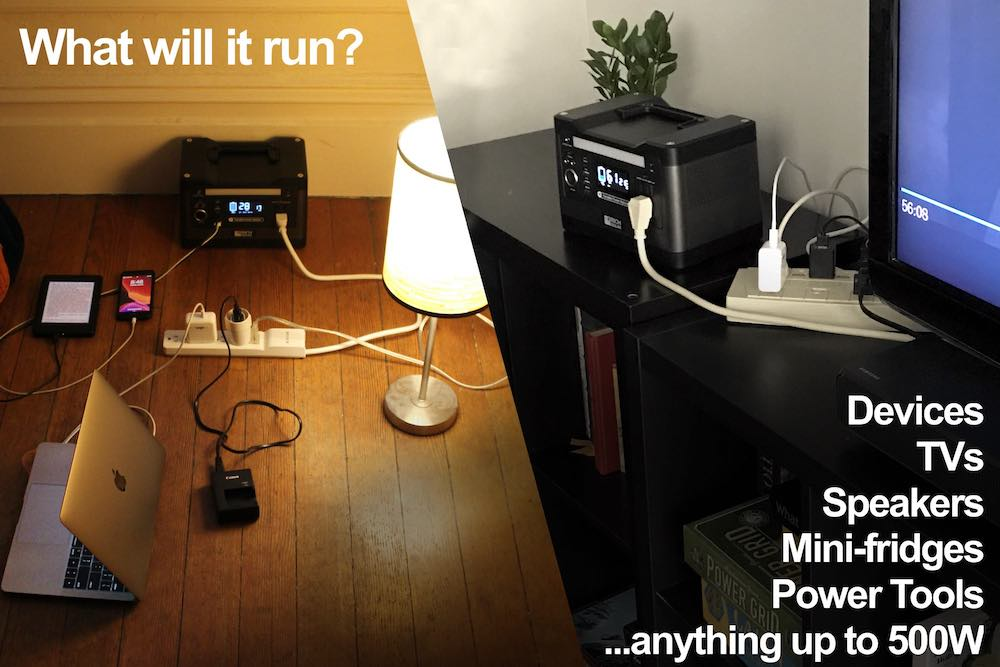
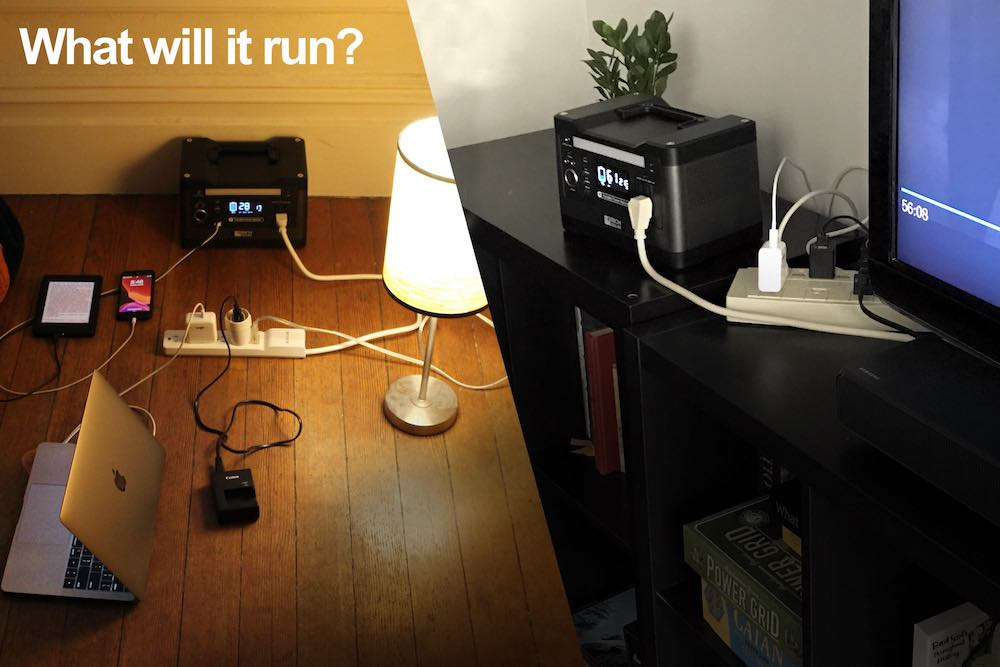
rebuilding site Wed Jul  1 12:24:56 PDT 2020

Changed region(s): [[0.589, 0.5697, 0.992, 1.0], [0.093, 0.06, 0.124, 0.09]]

diff --git a/docs/solar-kit/index.html b/docs/solar-kit/index.html
@@ -147,6 +147,9 @@ Step 2: Zip-tie panels in place Assembly is simple – zip-tie to the panels any
                 <div class="carousel-item" data-slide-number="5">
                     <img src="img/where_to_put_panel_2.jpg" class="img-fluid">
                 </div>
+                <div class="carousel-item" data-slide-number="6">
+                    <img src="img/we_help_you_install.jpg" class="img-fluid">
+                </div>
 
 
                 <a class="carousel-control-prev" href="#myCarousel" role="button" data-slide="prev">
@@ -191,6 +194,11 @@ Step 2: Zip-tie panels in place Assembly is simple – zip-tie to the panels any
                 <li class="list-inline-item">
                     <a id="carousel-selector-5" data-slide-to="5" data-target="#myCarousel">
                         <img src="img/where_to_put_panel_2.jpg" class="img-fluid">
+                    </a>
+                </li>
+                <li class="list-inline-item">
+                    <a id="carousel-selector-6" data-slide-to="6" data-target="#myCarousel">
+                        <img src="img/we_help_you_install.jpg" class="img-fluid">
                     </a>
                 </li>
             </ul>
@@ -258,9 +266,10 @@ Step 2: Zip-tie panels in place Assembly is simple – zip-tie to the panels any
           </div>
           <hr/>
           <div class="col-12 mt-5">
-            <h4>Power:</h4>
+            <h4>Power anything up to 500W:</h4>
             <img data-src="img/what_will_it_run_2.jpg" class="lazy">
             <img data-src="img/what_will_it_run.jpg" class="lazy">
+            <p>Questions about whether it can run your device? Reach out!</p>
           </div>
       </div>
       <br/><br/>

diff --git a/layouts/solar-kit/list.html b/layouts/solar-kit/list.html
@@ -48,6 +48,9 @@
                 <div class="carousel-item" data-slide-number="5">
                     <img src="img/where_to_put_panel_2.jpg" class="img-fluid">
                 </div>
+                <div class="carousel-item" data-slide-number="6">
+                    <img src="img/we_help_you_install.jpg" class="img-fluid">
+                </div>
 
 
                 <a class="carousel-control-prev" href="#myCarousel" role="button" data-slide="prev">
@@ -92,6 +95,11 @@
                 <li class="list-inline-item">
                     <a id="carousel-selector-5" data-slide-to="5" data-target="#myCarousel">
                         <img src="img/where_to_put_panel_2.jpg" class="img-fluid">
+                    </a>
+                </li>
+                <li class="list-inline-item">
+                    <a id="carousel-selector-6" data-slide-to="6" data-target="#myCarousel">
+                        <img src="img/we_help_you_install.jpg" class="img-fluid">
                     </a>
                 </li>
             </ul>
@@ -159,9 +167,10 @@
           </div>
           <hr/>
           <div class="col-12 mt-5">
-            <h4>Power:</h4>
+            <h4>Power anything up to 500W:</h4>
             <img data-src="img/what_will_it_run_2.jpg" class="lazy">
             <img data-src="img/what_will_it_run.jpg" class="lazy">
+            <p>Questions about whether it can run your device? Reach out!</p>
           </div>
       </div>
       <br/><br/>
